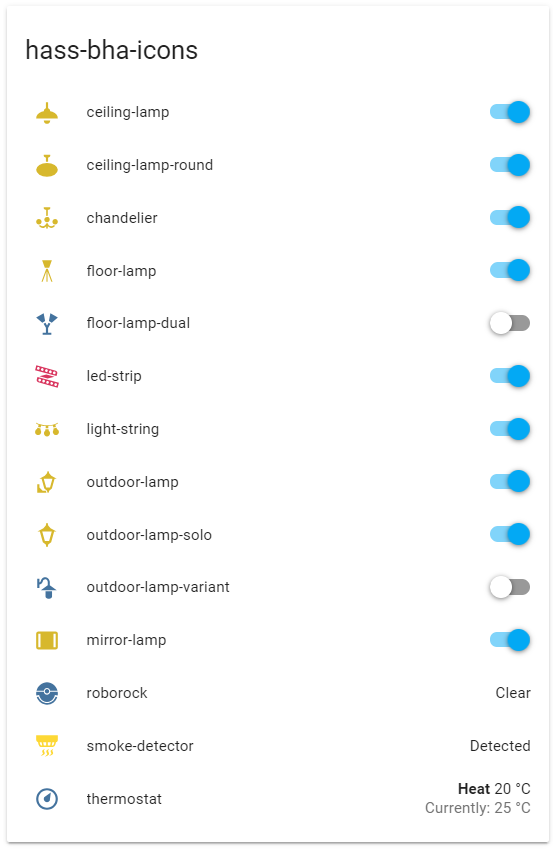
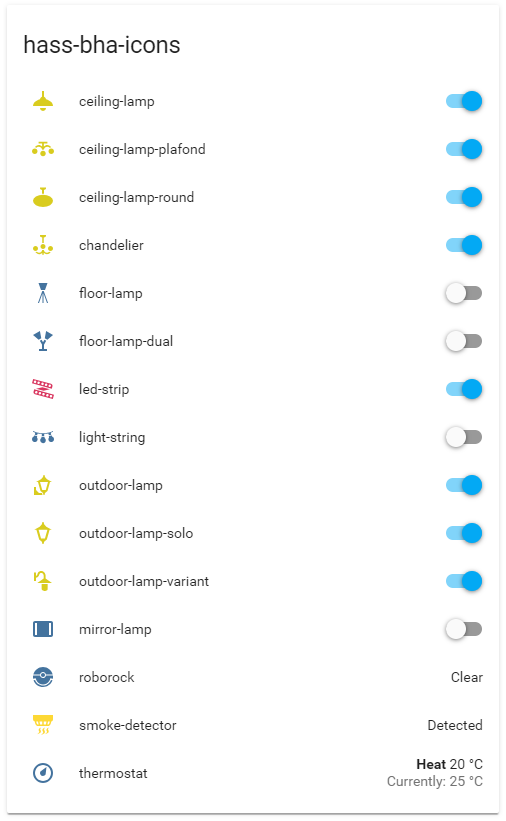
Added ceiling-lamp-plafond

Changed region(s): [[0.0296, 0.0914, 0.9783, 1.0], [0.1482, 0.1218, 0.415, 0.944], [0.0296, 0.0305, 0.3557, 0.0914]]

diff --git a/hass-bha-icons.html b/hass-bha-icons.html
@@ -1,5 +1,6 @@
 <ha-iconset-svg name="bha" size="24"><svg><defs>
 <g id="ceiling-lamp"><path d="m11 2v5.6738a3 3 0 0 0 -0.5 0.22852 3 3 0 0 0 -1.4902 2.4238 10 7 0 0 0 -2.0098 0.61133 10 7 0 0 0 -5 6.0625h20a10 7 0 0 0 -5 -6.0625 10 7 0 0 0 -2.0078 -0.60938 3 3 0 0 0 -1.4922 -2.4258 3 3 0 0 0 -0.5 -0.22656v-5.6758h-2zm-2 17a3 3 0 0 0 1.5 2.5977 3 3 0 0 0 3 0 3 3 0 0 0 1.5 -2.5977h-6z"/></g>
+<g id="ceiling-lamp-plafond"><path d="m7.6 4.8256v1.7488h3.5256v2.9621c-0.91334-0.87498-2.0664-1.5061-3.4289-1.5061-1.5609 0-3.1141 1.0253-4.1314 2.3504 0.06152-0.0036 0.12313-0.0058 0.18477-0.0064 0.53427 7.56e-4 1.0625 0.11269 1.5512 0.32871 0.64986-0.61129 1.5111-1.0227 2.3955-1.0227 1.7571 0 3.1924 1.3073 3.4289 2.9992 0.28648-0.06838 0.57988-0.10374 0.87441-0.10527 0.29454 0.0015 0.58793 0.03685 0.87441 0.10527 0.23635-1.6919 1.6718-2.9992 3.4289-2.9992 0.88436 0 1.7474 0.41273 2.3977 1.0248 0.48783-0.21646 1.0153-0.32913 1.549-0.33086 0.06309 0.0013 0.12612 0.0042 0.18906 0.0086-1.0173-1.3267-2.5734-2.3525-4.1357-2.3525-1.3626 0-2.5154 0.63312-3.4289 1.5082v-2.9643h3.5256v-1.7488zm-3.85 6.6488c-1.5188 0-2.75 1.2312-2.75 2.75s1.2312 2.75 2.75 2.75 2.75-1.2312 2.75-2.75-1.2312-2.75-2.75-2.75zm16.5 0c-1.5188 0-2.75 1.2312-2.75 2.75s1.2312 2.75 2.75 2.75 2.75-1.2312 2.75-2.75-1.2312-2.75-2.75-2.75zm-8.25 2.2c-1.5188 0-2.75 1.2312-2.75 2.75s1.2312 2.75 2.75 2.75 2.75-1.2312 2.75-2.75-1.2312-2.75-2.75-2.75z"/></g>
 <g id="ceiling-lamp-round"><path d="m9 2.5v1a3 1.5 0 0 0 1.5 1.2988 3 1.5 0 0 0 0.5 0.11328v3.8242a11 7.15 0 0 1 1 -0.037109 11 7.15 0 0 1 1 0.033203v-3.8203a3 1.5 0 0 0 0.5 -0.11328 3 1.5 0 0 0 1.5 -1.2988v-1h-6zm3 7.1992a10 6.15 0 0 0 -10 6.1504 10 6.15 0 0 0 10 6.1504 10 6.15 0 0 0 10 -6.1504 10 6.15 0 0 0 -10 -6.1504z"/></g>
 <g id="chandelier"><path d="m9 2.0004v1c1.701e-4 0.53581 0.57194 1.0309 1.5 1.2988 0.23509 0.067489 0.48738 0.11874 0.75 0.15234l-2e-3 5.6344c0.24619-0.0556 0.49959-0.08442 0.75195-0.08594 0.2523 8.81e-4 0.50376 0.02904 0.75 0.08398v-5.6324c0.26262-0.033604 0.51491-0.084851 0.75-0.15234 0.92806-0.26791 1.4998-0.76299 1.5-1.2988v-1h-6zm3 8.9996c-1.3807 0-2.5 1.1193-2.5 2.5s1.1193 2.5 2.5 2.5 2.5-1.1193 2.5-2.5-1.1193-2.5-2.5-2.5zm-7.5 2c-1.3807 0-2.5 1.1193-2.5 2.5s1.1193 2.5 2.5 2.5 2.5-1.1193 2.5-2.5-1.1193-2.5-2.5-2.5zm15 0c-1.3807 0-2.5 1.1193-2.5 2.5s1.1193 2.5 2.5 2.5 2.5-1.1193 2.5-2.5-1.1193-2.5-2.5-2.5zm-8.2949 3.9043c-0.21486 1.5381-1.5198 2.7266-3.1172 2.7266-0.80396 0-1.5886-0.37521-2.1797-0.93164-0.44348 0.19678-0.92303 0.29921-1.4082 0.30078-0.057347-0.0012-0.11466-0.0038-0.17188-0.0078 0.92479 1.2061 2.3395 2.1387 3.7598 2.1387 1.2597 0 2.3252-0.59164 3.1621-1.4082v1.5273c0 0.41421 0.33579 0.75 0.75 0.75 0.39939-5.51e-4 0.72829-0.3511 0.74805-0.75v-1.5273c0.83704 0.81754 1.9035 1.4082 3.1641 1.4082 1.419 0 2.831-0.93211 3.7559-2.1367-0.05593 0.0033-0.11194 0.0053-0.16797 0.0059-0.4857-6.87e-4 -0.96593-0.10245-1.4102-0.29883-0.59078 0.55572-1.3737 0.92969-2.1777 0.92969-1.5974 0-2.9022-1.1885-3.1172-2.7266-0.26044 0.06216-0.52716 0.09431-0.79492 0.0957-0.26776-0.0014-0.53448-0.0335-0.79492-0.0957z"/></g>
 <g id="floor-lamp"><path d="m7.5 2l2.5 7h4l2.5-7h-9zm3.7891 8l-4.3691 12h1.0645l3.5156-9.6562v9.6562h1v-9.6504l3.5117 9.6504h1.0645l-4.3672-12h-1.4199z"/></g>
